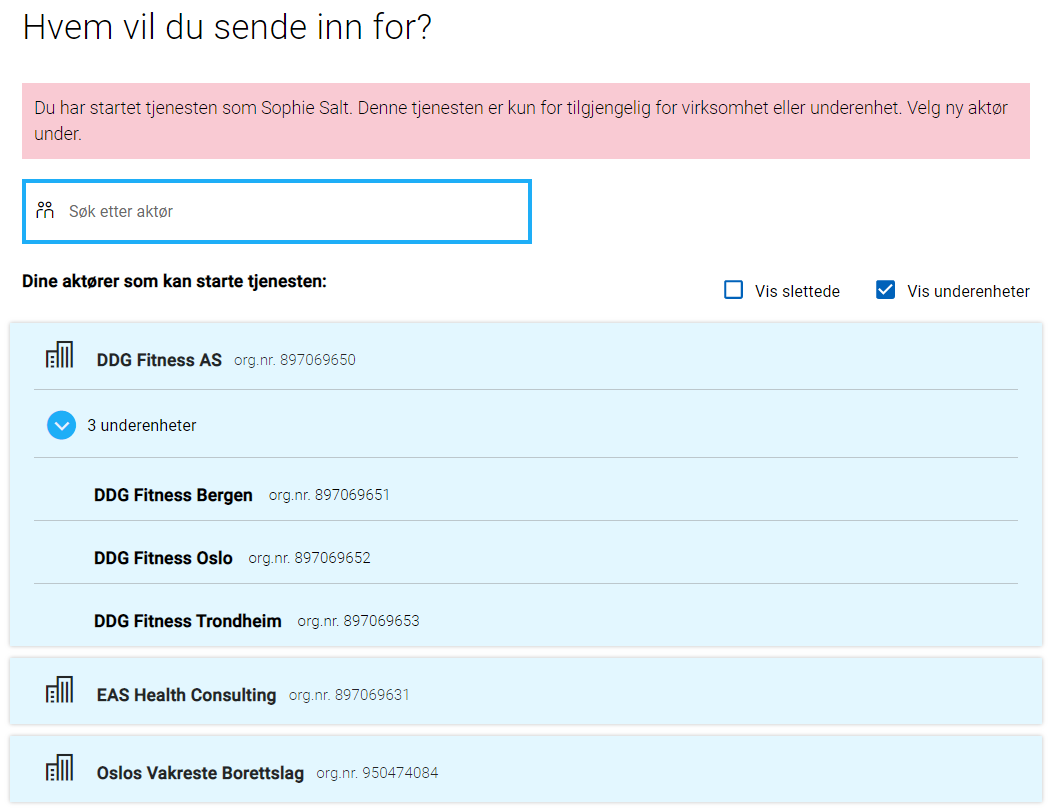
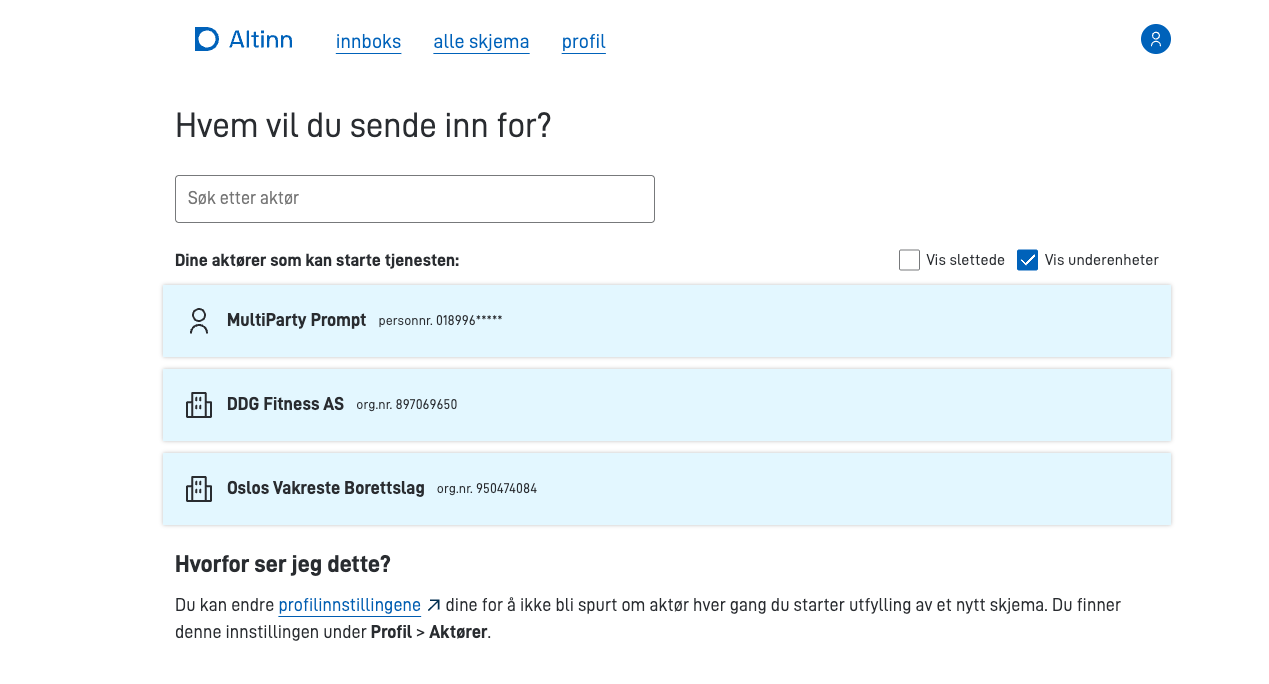
docs(v9): review "Testing" section

diff --git a/content/altinn-studio/v9/test-a-service/testing/local/testusers/_index.nb.md b/content/altinn-studio/v9/test-a-service/testing/local/testusers/_index.nb.md
@@ -2,29 +2,29 @@
 draft: true
 title: Bruke testbrukere lokalt
 linktitle: Testbrukere
-description: Slik bruker du testbrukere til lokal test.
+description: Slik bruker du testbrukere når du tester appen lokalt.
 toc: true
-tags: [needsReview]
+tags: [Reviewed]
 ---
 
-## Velg app og testbruker
+## Velge app og testbruker
 
-Åpne lokaltest og velg appen under **Select app to test**. Dette valget vises også når du kjører én app. Velg deretter bruker under **Select test users** og autentiseringsnivå under **Select your authentication level**. Klikk **Proceed to app** for å åpne appen som testbrukeren.
+Åpne localtest på [local.altinn.cloud:8000](http://local.altinn.cloud:8000), og velg appen under **Select app to test**. Du ser dette valget også når du kjører bare én app. Velg deretter bruker under **Select test users** og autentiseringsnivå under **Select your authentication level**. Klikk på **Proceed to app** for å åpne appen som testbrukeren.
+
+![Forsiden i localtest med valg av app, testbruker og autentiseringsnivå](./userselection.png "Forsiden i localtest")
 
 ## Standardbrukere
 
-Disse kan du velge når du logger inn i lokal test.
-
-![testbrukere](userselection.png "Velge testbrukere")
+Disse testbrukerne kan du velge i localtest.
 
 ### Sophie Salt
 
-Sophie er en svært driftig dame som bor i Oslo. Hun har startet en kjede med treningssentre som heter DDG Fitness og til nå er det startet tre underenheter i Oslo, Bergen og Trondheim.
+Sophie er en svært driftig dame som bor i Oslo. Hun har startet en kjede med treningssentre som heter DDG Fitness, og til nå har hun startet tre underenheter i Oslo, Bergen og Trondheim.
 Sophie har rollen DAGL og underrollene for DDG Fitness AS og underenhetene.
 
-I tillegg er hun ekspert på helse og har startet eget konsulentfirma for helsetjenester. Sophie har rollen LEDE + tilknyttede roller for EAS Health Consulting.
+I tillegg er hun ekspert på helse og har startet sitt eget konsulentfirma for helsetjenester. Sophie har rollen LEDE og tilknyttede roller for EAS Health Consulting.
 
-Hun er også styremedlem i borettslaget der hun bor. "Oslos Vakreste Borettslag". Sophie har rollen MEDL + tilknyttede roller for "Oslos Vakreste Borettslag".
+Hun er også styremedlem i borettslaget der hun bor, Oslos Vakreste Borettslag. Sophie har rollen MEDL og tilknyttede roller for borettslaget.
 
 #### Avgivere
 
@@ -37,8 +37,6 @@ Hun er også styremedlem i borettslaget der hun bor. "Oslos Vakreste Borettslag"
 | [897069653 DDG Fitness Trondheim](https://github.com/Altinn/altinn-studio/blob/main/src/Runtime/localtest/testdata/Register/Org/897069653.json)     | [Daglig leder + knytninger](https://github.com/Altinn/altinn-studio/blob/main/src/Runtime/localtest/testdata/authorization/roles/User_1337/party_500003/roles.json) |
 | [897069631 EAS Health Consulting](https://github.com/Altinn/altinn-studio/blob/main/src/Runtime/localtest/testdata/Register/Org/897069631.json)     | [Styreleder + knytninger](https://github.com/Altinn/altinn-studio/blob/main/src/Runtime/localtest/testdata/authorization/roles/User_1337/party_500600/roles.json)   |
 | [950474084 Oslos Vakreste Borettslag](https://github.com/Altinn/altinn-studio/blob/main/src/Runtime/localtest/testdata/Register/Org/950474084.json) | [Styremedlem + knytninger](https://github.com/Altinn/altinn-studio/blob/main/src/Runtime/localtest/testdata/authorization/roles/User_1337/party_500700/roles.json)  |
-
-![testbrukere](selectparty.png "Avgiver valg Sophie Salt")
 
 ### Pengelens Partner
 
@@ -64,46 +62,54 @@ Gjentagende Forelder er revisor for selskapet DDG Fitness AS.
 
 ### Ola Nordmann
 
-Ola Nordmann er en privatperson som kun kan representere seg selv.
+Ola Nordmann er en privatperson som bare kan representere seg selv.
 Han er bosatt på Stokmarknes.
 
 #### Avgivere
 
 - [01017512345 Ola Nordmann](https://github.com/Altinn/altinn-studio/blob/main/src/Runtime/localtest/testdata/Register/Person/01017512345.json)
 
+### MultiParty Prompt
+
+MultiParty Prompt får spørsmål om hvem brukeren vil sende inn for, når appen starter. De andre standardbrukerne går rett inn i appen. Bruk MultiParty Prompt når du vil teste aktørvalget.
+
+![Aktørvalget «Hvem vil du sende inn for?» for MultiParty Prompt](./selectparty.png "Velge aktør")
+
 ### Andre brukere
 
-For å teste skjemaer relatert til barn og oppvekst (barnehage og skole) er det lagt til noen spesifikke brukere.
+For å teste skjemaer om barn og oppvekst, for eksempel barnehage og skole, har vi lagt til noen egne brukere.
 
 | Avgiver                          | Barn | Inntekt |
 | -------------------------------- | ---- | ------- |
 | 01899699552 Pengelens Partner    | 0    | Lav     |
 | 17858296439 Gjentagende Forelder | 3    | Middels |
-| 29917097109 Rik forelder         | 2    | Høy     |
+| 08829698278 Rik forelder         | 2    | Høy     |
 
 **Merk:** Disse er fra Tenors testdatasett, men ligger der med andre navn.
 
 ### Systemer og systembrukere
 
-Med nyere versjon av localtest kan du teste apper med systembrukere lokalt.
-Det er lagt ved et innebygget system og en systembruker knyttet til 950474084 Oslos Vakreste Borettslag.
-Du kan hente ut token ved hjelp av `/Home/GetTestSystemUserToken` i localtest eller besøke nettsiden `/Home/Tokens`.
+Med nyere versjoner av localtest kan du teste apper med systembrukere lokalt.
+Localtest har et innebygd system og en systembruker som er knyttet til 950474084 Oslos Vakreste Borettslag.
+Du kan hente et token med `/Home/GetTestSystemUserToken` i localtest, eller åpne siden **Tokens** (`/Home/Tokens`).
 
 ### Instansdelegering
 
-Den siste versjonen av localtest støtter instansdelegering. Brukere og avgivere du delegerer fra og til må ha en `partyUuid` knyttet til seg. Se eksempelfil under.
+Den siste versjonen av localtest støtter instansdelegering. Brukere og avgivere du delegerer fra og til må ha en `partyUuid` knyttet til seg. Se eksempelfilen nedenfor.
 
 ## App-spesifikke brukere
 
-Hvis standardsettet med brukere ikke passer for å teste appen din lokalt, kan du sørge for at appen din svarer med et JSON-dokument på URL `/[org]/[appId]/testData.json`. Den enkleste måten er å legge filen på `App/wwwroot/testData.json`.
+Hvis standardsettet med brukere ikke passer for å teste appen din lokalt, kan du sørge for at appen din svarer med et JSON-dokument på adressen `/[org]/[appId]/testData.json`. Den enkleste måten er å legge filen på `App/wwwroot/testData.json`.
 
 Du kan for eksempel:
 - Bruke andre organisasjonsnummer eller fødselsnummer, slik at oppslag i API-er som appen er avhengig av fungerer.
 - Teste autorisasjonsreglene med andre roller enn det standardbrukerne har.
 
+Vil du bruke flere testpersoner eller virksomheter, for eksempel de samme som i TT02, kan du hente dem fra Tenor testdata og velge dem på siden **User administration** i localtest. Der kan du laste dem ned som `testData.json`.
+
 ### JSON-struktur
 
-Det finnes et [JsonSchema](https://altinncdn.no/schemas/json/test-users/test-users.schema.v1.json) som hjelper deg å skrive en `testData.json`-fil i verktøy som VSCode. En full versjon av brukerne som ligger i TestData-mappen er tilgjengelig i [testData.json](testData.json)
+Det finnes et [JSON-skjema](https://altinncdn.no/schemas/json/test-users/test-users.schema.v1.json) som hjelper deg å skrive en `testData.json`-fil i verktøy som Visual Studio Code. Du finner alle standardbrukerne i localtest i filen [testData.json](./testData.json).
 
 ```json
 {

diff --git a/content/altinn-studio/v9/test-a-service/testing/deploy/_index.nb.md b/content/altinn-studio/v9/test-a-service/testing/deploy/_index.nb.md
@@ -1,58 +1,58 @@
 ---
 draft: true
-title: Teste app i testmiljø
+title: Teste appen i testmiljøet
 linktitle: I testmiljø
-description: Bygg, distribuer og test appen i Altinns testmiljø
+description: Slik bygger, publiserer og tester du appen i testmiljøet.
 toc: true
-tags: [needsReview]
+tags: [Reviewed]
 
 aliases:
 - /nb/altinn-studio/v8/reference/testing/deploy/
 ---
 
-{{%notice warning%}}
-Denne dokumentasjonen blir snart oppdatert. Vi lanserer den nye bygg- og publiseringssiden snart.
-{{% /notice%}}
+Du bygger appen og publiserer den i testmiljøet fra fanen **Publiser** i Altinn Studio.
 
-Slik klargjør du appen og distribusjon til testmiljø fra fanen **Publiser** i Altinn Studio.
+## Bygge appen
 
-## Bygg appen
-
-Før du kan distribuere en app til testmiljø må du samle alle nødvendige filer i en pakke. Du gjør dette ved å _bygge_ appen.
+Før du kan publisere appen i testmiljøet, må du samle alle filene den trenger, i en pakke. Det gjør du ved å _bygge_ appen.
 
 {{%notice info%}}
-Bygget bruker filene fra app-repositoriet. Hvis du har gjort endringer på en app i Altinn Studio må du sende disse til repositoriet for at endringene blir med i byggpakken. Du gjør dette ved å velge **Del dine endringer** fra fanen **Utforming** i Altinn Studio.
+Bygget bruker filene fra app-repositoriet. Hvis du har gjort endringer på en app i Altinn Studio, må du dele dem med repositoriet for at endringene skal bli med i bygget. Du gjør dette ved å klikke på **Del dine endringer** i verktøylinjen øverst i Altinn Studio.
 {{% /notice%}}
 
-Når en app er klar til test kan du bygge den ved å gå til fanen **Publiser** i Altinn Studio (inne på appen du vil distribuere).
+Når appen er klar til test, åpner du den i Altinn Studio og går til fanen **Publiser**.
 
 På høyre side ser du et panel for å bygge appen.
 
 {{%notice info%}}
-Du kan kun bygge ny versjon av appen hvis du faktisk har gjort endringer i appen. Hvis du har gjort endringer og ikke kan bygge ny versjon, pass på at du har sendt endringene til app-repositoriet.
+Du kan bare bygge en ny versjon hvis du har gjort endringer i appen siden forrige bygg. Hvis du har gjort endringer, men ikke kan bygge, sjekker du at du har klikket på **Del dine endringer**.
 {{% /notice%}}
 
-1. Skriv inn versjonsnummer for versjonen av appen du vil bygge. Versjonsnummeret må være unikt (ikke brukt tidligere for denne appen).
-2. Skriv inn beskrivelse for denne versjonen av appen.
+1. Skriv inn et versjonsnummer i feltet **Versjonsnummer**. Versjonsnummeret må være unikt, det vil si at du ikke kan ha brukt det før for denne appen.
+2. Beskriv versjonen i feltet **Beskriv innholdet i versjonen**.
 3. Klikk på **Bygg versjon** for å starte bygget.
 
-Du ser status for bygget under **Tidligere bygg av applikasjonen**. Når status er grønn er denne versjonen av appen klar til distribusjon til testmiljø.
+Du ser status for bygget under **Tidligere bygg av appen**. Når bygget er ferdig, ser du et grønt hakemerke ved **Bygglogg**. Da er versjonen klar, og du kan publisere den i testmiljøet.
 
-![Bygge app](build-app.gif?width=700 "Bygge app")
+![Feltene for å bygge en ny versjon av appen](./build-app.png "Bygge en ny versjon")
 
-## Distribuer appen til testmiljø
+## Publisere appen i testmiljøet
 
-Når du har bygget en app ferdig kan du distribuere den til testmiljø. Du gjør dette fra fanen **Publiser**. Der ser du en oversikt over tilgjengelige miljøer, i tillegg til en oversikt over hvilke versjoner av appen som finnes i de forskjellige miljøene.
+Når du har bygget appen, kan du publisere den i testmiljøet. Det gjør du også fra fanen **Publiser**. Der ser du en oversikt over tilgjengelige miljøer, i tillegg til en oversikt over hvilke versjoner av appen som finnes i de forskjellige miljøene.
 
-1. Velg versjonen av appen du vil distribuere fra nedtrekkslisten under det aktuelle miljøet.
+Hvis du ikke har tilgang til å publisere til et miljø, ser du meldingen «Du har ikke rettigheter til å publisere til …» under miljøet. Da må eierne i organisasjonen din gi deg tilgang. Les mer om [tilganger i Altinn Studio]({{< relref "/altinn-studio/v9/manage-a-service/access-management/studio" >}}).
+
+1. Velg versjonen du vil publisere, i nedtrekkslisten **Velg den versjonen du vil publisere** under miljøet.
 2. Klikk på **Publiser ny versjon**.
+3. Klikk på **Ja** for å bekrefte at du vil publisere versjonen.
+   ![Bekreftelsen før du publiserer en versjon](./publish-confirm.png "Bekrefte publiseringen")
 
-Systemet distribuerer valgt versjon til valgt miljø. Du kan distribuere ny versjon eller gå tilbake til en eldre versjon hvis du ønsker det.
+Når publiseringen er ferdig, blir miljøet grønt, og du ser teksten «Appen versjon … er tilgjengelig i miljøet». I tabellen ved siden av ser du status, versjon, dato, hvem som publiserte, og en lenke til byggloggen. Du kan publisere en ny versjon, eller gå tilbake til en eldre versjon hvis du vil det.
 
-![Deploye app](deploy-app.gif?width=700 "Deploye app")
+![Miljøet etter at versjonen er publisert](./publish-result.png "Versjonen er publisert")
 
-## Test appen i testmiljø
+## Teste appen i testmiljøet
 
-Logg inn i testmiljøet med testbruker. Bruk lenken du ser over hvert miljø i fanen **Publiser** for å komme til ønsket testmiljø og starte ny instans av appen.
+Klikk på lenken **versjon …** under navnet på miljøet i fanen **Publiser** for å åpne appen i testmiljøet. Logg inn med **TestID** og en testperson.
 
-Du finner alle instanser i meldingsboksen/arkivet til valgt aktør, på samme måte som dagens tjenester (som er basert på Altinn II).
+Instansene du lager, finner du i innboksen i Arbeidsflate til aktøren du valgte. I TT02 finner du Arbeidsflate på https://af.tt02.altinn.no/.

diff --git a/content/altinn-studio/v9/test-a-service/testing/local/debug/_index.nb.md b/content/altinn-studio/v9/test-a-service/testing/local/debug/_index.nb.md
@@ -2,55 +2,43 @@
 draft: true
 title: Feilsøke i appen
 linktitle: Feilsøking
-description: Slik feilsøker du i appen lokalt ved hjelp av ulike verktøy.
+description: Slik feilsøker du i appen lokalt med Visual Studio Code.
 toc: true
-tags: [needsReview]
+tags: [Reviewed]
 ---
 
-Følgende beskrivelse forutsetter at du har klonet appen fra Altinn Studio Repositories og har filene liggende på lokal harddisk.
+Denne veiledningen forutsetter at du har [klonet appen og satt opp lokal utvikling]({{< relref "/altinn-studio/v9/getting-started/development/localtest/local-dev" >}}), og at den lokale testplattformen kjører (`studioctl env up`). Du trenger også utvidelsen **C# Dev Kit** i Visual Studio Code.
 
 ## Feilsøke i Visual Studio Code
 
-### Alternativ 1: Starte appen fra Visual Studio Code (.NET Core Launch)
+### Alternativ 1: Starte appen fra Visual Studio Code
 
-Denne metoden er den enkleste. Her vil Visual Studio Code starte appen og koble seg til i én og samme prosess.
+Dette er den enkleste metoden. Visual Studio Code starter appen og kobler feilsøkeren til i én og samme prosess.
 
-1. Åpne applikasjonsprosjektet i Visual Studio Code.
-2. Velg **Åpne mappe** og gå til der repositoriet er lagret på maskinen din.
-3. Velg Feilsøkingsikonet (Debugging-ikonet) til venstre i den vertikale menyen.
+1. Åpne mappen til appen i Visual Studio Code.
+2. Klikk på **Run and Debug** i menyen til venstre.
+3. Velg **C#: App** i nedtrekkslisten, og klikk på den grønne avspillingsknappen. Hvis **C#: App** ikke står i listen, velger du **C#** og deretter prosjektet **App**.
+   ![Run and Debug med C#: App i Visual Studio Code](./debug-start.png "Starte feilsøking")
+4. Appen starter. Du ser verktøylinjen for feilsøking øverst, og loggene i **Debug Console**.
+5. Åpne [local.altinn.cloud:8000](http://local.altinn.cloud:8000) i nettleseren, og start appen.
 
-   ![debug](debug1a.png "Starte feilsøking")
+### Alternativ 2: Koble til en app som allerede kjører
 
-4. Velg **.NET Core Launch** fra nedtrekkslisten.
-5. Klikk på den grønne **Play**-knappen.
-6. Applikasjonen starter og spør om du vil starte en nettleser. Velg **Close**.
+Bruk dette alternativet hvis du har startet appen med `studioctl run`.
 
-   ![debug](debug1aa.png "Feilsøking startet")
+1. Start appen fra mappen til appen:
+   ```bash
+   studioctl run
+   ```
+2. Trykk på **Cmd + Shift + P** (**Ctrl + Shift + P** på Windows) i Visual Studio Code.
+3. Skriv «Attach to a .NET», og velg **Debug: Attach to a .NET 5+ or .NET Core process**. Ikke velg **Attach** fra Docker-utvidelsen, som kobler til containere.
+4. Skriv **Altinn** i feltet, og velg prosessen som kjører **Altinn.Application**. Startet du appen med `studioctl run`, heter den vanligvis **dotnet**, med **Altinn.Application.dll** under.
+   ![Listen over prosesser med Altinn.Application](./debug-attach.png "Koble til appen")
 
-7. Åpne et nettleservindu og gå til http://local.altinn.cloud (forutsetter at du har startet lokal utviklingsplattform).
+## Legge til stoppunkter og analysere koden
 
-### Alternativ 2: Starte appen fra kommandovindu
+1. Klikk til venstre for linjenummeret der du vil at feilsøkeren skal stoppe, eller trykk på **F9**. Da ser du en rød prikk.
+   ![Et stoppunkt i Program.cs](./debug-breakpoint.png "Legge til et stoppunkt")
+2. Når appen kommer til linjen, stopper feilsøkeren. Da kan du se verdiene under **Variables** i **Run and Debug**, og finne ut hvordan koden fungerer.
 
-Dette forutsetter at du allerede har startet appen.
-
-1. Gå til mappen der appen ligger.
-2. Kjør kommando for å starte dotnet-prosessen.
-
-   ![debug](debug1.png "Starte .NET-applikasjon")
-
-3. Åpne mappen med applikasjonsprosjektet i Visual Studio Code.
-4. Koble deg til prosessen som heter **Altinn.App.exe**.
-
-   ![debug](debug2.png "Koble til applikasjonsprosess")
-
-## Legge til breakpoints og analysere kode
-
-1. Sett breakpoints i koden der du vil at feilsøkeren skal stoppe.
-
-   ![debug](debug3.png "Legge til breakpoint")
-
-2. Der feilsøkeren stopper kan du analysere lokale verdier på objekter for å finne ut hvordan koden fungerer og eventuelt finne feil.
-
-   ![debug](debug4.png "Se på lokale verdier")
-
-[Les mer om feilsøking i Visual Studio Code i dokumentasjonen](https://code.visualstudio.com/docs/editor/debugging).
+Les mer om [feilsøking i dokumentasjonen til Visual Studio Code](https://code.visualstudio.com/docs/debugtest/debugging).

diff --git a/content/altinn-studio/v9/test-a-service/testing/local/apitests/org/_index.nb.md b/content/altinn-studio/v9/test-a-service/testing/local/apitests/org/_index.nb.md
@@ -2,19 +2,13 @@
 draft: true
 title: Teste API som organisasjon
 linktitle: Organisasjon
-description: Slik tester du API-er som applikasjonen eksponerer når du kjører den lokalt sammen med den lokale testplattformen.
+description: Slik tester du API-ene i appen som organisasjon når du kjører appen med den lokale testplattformen.
 toc: true
-tags: [needsReview]
+tags: [Reviewed]
 ---
 
-{{%notice warning%}}
-**Må oppdateres:** Sjekk lenkene til local.altinn.cloud.
-{{% /notice%}}
-
-Appen har en rekke API-er som applikasjonseier/tjenesteeier kan bruke.
-Beskrivelsen du finner her er laget for [Postman](https://www.getpostman.com/) hvor vi har brukt testapplikasjonen [MVA testapp](https://dev.altinn.studio/repos/ttd/mva).
-
-[Postman-eksempler for Altinn](https://github.com/Altinn/postman-examples).
+Appen har en rekke API-er som tjenesteeieren kan bruke.
+Eksemplene bruker en test-app som heter `ttd/mva`. Bytt ut organisasjon, app og data med dine egne. Du kan sende forespørslene med for eksempel `curl` eller [Postman](https://www.postman.com/).
 
 ## Autentisere en tjenesteeierorganisasjon
 
@@ -22,28 +16,24 @@ I testmiljø og produksjon bruker systemet Maskinporten for å autentisere organ
 
 Testplattformen for lokal testing tilbyr et enkelt API for å autentisere organisasjonen som er ansvarlig.
 
-Du trenger bare å oppgi tjenesteeierkode (som f.eks brg, skd osv).
+Du trenger bare å oppgi tjenesteeierkoden (for eksempel brg eller skd).
 
-[Hent testtoken for organisasjonen](http://local.altinn.cloud/Home/GetTestOrgToken/ttd) (erstatt `ttd` i URL-en med organisasjonen du vil autentisere).
+[Hent testtoken for organisasjonen](http://local.altinn.cloud:8000/Home/GetTestOrgToken/ttd) (erstatt `ttd` i URL-en med organisasjonen du vil autentisere).
 
-Responsen er et JWT-token som skal brukes som en Authorization-header.
+Responsen er et JWT-token som du bruker i headeren **Authorization**.
 
-![Login](login.png "Login request")
+![Testtoken for organisasjonen i nettleseren](./login.png "Testtoken for organisasjonen")
 
-## Multipart-instansiering
+## Opprette en instans med multipart
 
-Applikasjonene støtter at du oppretter instanser for aktører (personer eller organisasjoner).
+Appene støtter at du oppretter instanser for aktører (personer eller organisasjoner).
 
-[Opprett en instans](http://local.altinn.cloud/ttd/mva/instances) (erstatt `ttd/mva` i URL-en med din org og app).
-
-Metode: POST
+Send en **POST**-forespørsel til `http://local.altinn.cloud:8000/{org}/{app}/instances`, for eksempel `http://local.altinn.cloud:8000/ttd/mva/instances`.
 
 **Headers:**
 
-- Authorization: Bearer + jwttoken
-- Content-Type: multipart/form-data; boundary="abcdefg"
-
-![headers](headers_multipart_instance.png "Headers for multipart-instansiering")
+- `Authorization: Bearer <token>`
+- `Content-Type: multipart/form-data; boundary="abcdefg"`
 
 **Eksempel body:**
 

diff --git a/content/altinn-studio/v9/test-a-service/testing/local/_index.nb.md b/content/altinn-studio/v9/test-a-service/testing/local/_index.nb.md
@@ -2,31 +2,31 @@
 draft: true
 title: Teste appen lokalt
 linktitle: Lokalt
-description: Slik kjører og tester du appen på egen maskin med lokal testplattform
-tags: [needsReview]
+description: Slik kjører og tester du appen på maskinen din med den lokale testplattformen.
+tags: [Reviewed]
 
 aliases:
 - /nb/altinn-studio/v8/reference/testing/local/
 ---
 
-Du kan teste appen på egen maskin uten å distribuere den til et testmiljø. `studioctl` starter appen og den lokale testplattformen, som erstatter plattformtjenestene appen bruker i et testmiljø.
+Du kan teste appen på maskinen din uten å publisere den i et testmiljø. `studioctl` starter appen og den lokale testplattformen, som erstatter plattformtjenestene appen bruker i et testmiljø.
 
 ## Kjøre appen lokalt
 
-Følg [oppsettet for lokal utvikling](/nb/altinn-studio/v9/getting-started/development/localtest/local-dev/) for å installere verktøyene og hente app-repoet.
+Følg [oppsettet for lokal utvikling]({{< relref "/altinn-studio/v9/getting-started/development/localtest/local-dev" >}}) for å installere verktøyene og hente app-repoet.
 
 Start testplattformen:
 
-```sh
+```bash
 studioctl env up
 ```
 
 Kjør deretter denne kommandoen fra app-repoet:
 
-```sh
+```bash
 studioctl run
 ```
 
-Åpne [local.altinn.cloud:8000](http://local.altinn.cloud:8000), velg appen og en [testbruker](/nb/altinn-studio/v9/test-a-service/testing/local/testusers/), og gå videre til appen.
+Åpne [local.altinn.cloud:8000](http://local.altinn.cloud:8000). Velg appen under **Select app to test** og en [testbruker]({{< relref "/altinn-studio/v9/test-a-service/testing/local/testusers" >}}) under **Select test users**, og klikk på **Proceed to app**.
 
 {{<children />}}

diff --git a/content/altinn-studio/v9/test-a-service/testing/local/apitests/_index.nb.md b/content/altinn-studio/v9/test-a-service/testing/local/apitests/_index.nb.md
@@ -3,7 +3,7 @@ draft: true
 title: Teste app-API-er lokalt
 linktitle: API-tester
 description: Slik tester du app-API-er lokalt.
-tags: [needsReview]
+tags: [Reviewed]
 ---
 
 {{<children />}}

diff --git a/content/altinn-studio/v9/test-a-service/testing/_index.nb.md b/content/altinn-studio/v9/test-a-service/testing/_index.nb.md
@@ -3,7 +3,7 @@ draft: true
 title: Testing
 description: Slik tester du Altinn-tjenester lokalt og i testmiljø.
 weight: 80
-tags: [needsReview]
+tags: [Reviewed]
 ---
 
 {{<children />}}
